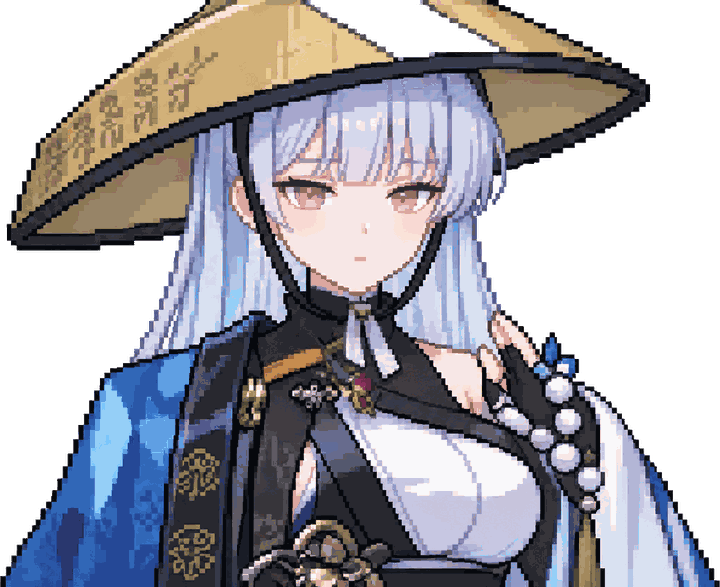
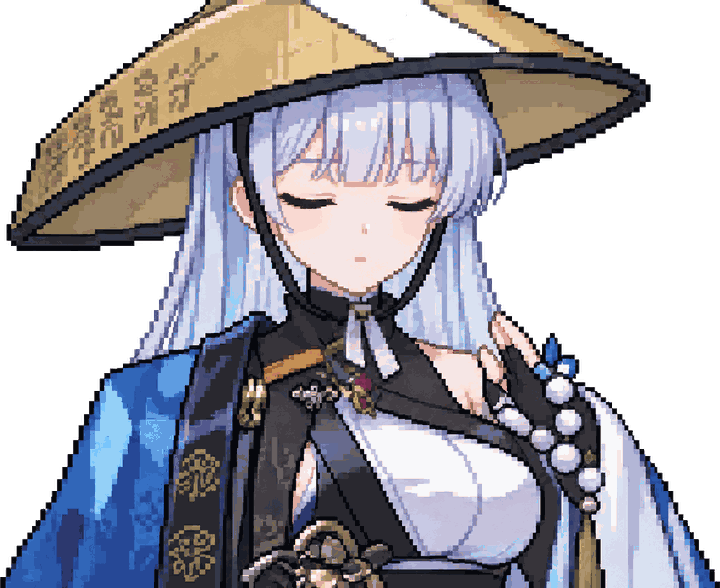
나유타 초상: 평상시 감은 눈으로 교체

diff --git a/data/case1.js b/data/case1.js
@@ -61,7 +61,7 @@ window.CASE = {
     { who: 'me', line: '(손을 들어 본다. 손가락 끝이… 네모나다.)' },
     { who: 'me', face: 'shock', line: '(도트다. 손도, 하늘도, 바닥도 전부 도트다!)' },
     { who: 'me', line: '(설마 또 오류의 틈에 빠진 건가? 이번엔 2D 세계로?)' },
-    { who: null, line: '멀리서 누군가 허둥지둥 다가온다. 커다란 삿갓, 손목에 감긴 염주.' },
+    { who: null, line: '멀리서 누군가 허둥지둥 다가온다. 커다란 삿갓, 손목에 감긴 염주. 두 눈은 감은 채다.' },
     { who: 'me', face: 'shock', line: '(…저 삿갓. 저 염주. 설마, 설마….)' },
     { who: 'nayuta', face: 'sad', line: '찾았소, 찾았소이다! 천외에서 떨어진 분이 정말로 계셨구려!' },
     { who: 'me', face: 'shock', line: '(이 하오체. 틀림없다. 나유타다. 내 최애, 나유타가 눈앞에 있다!)' },
